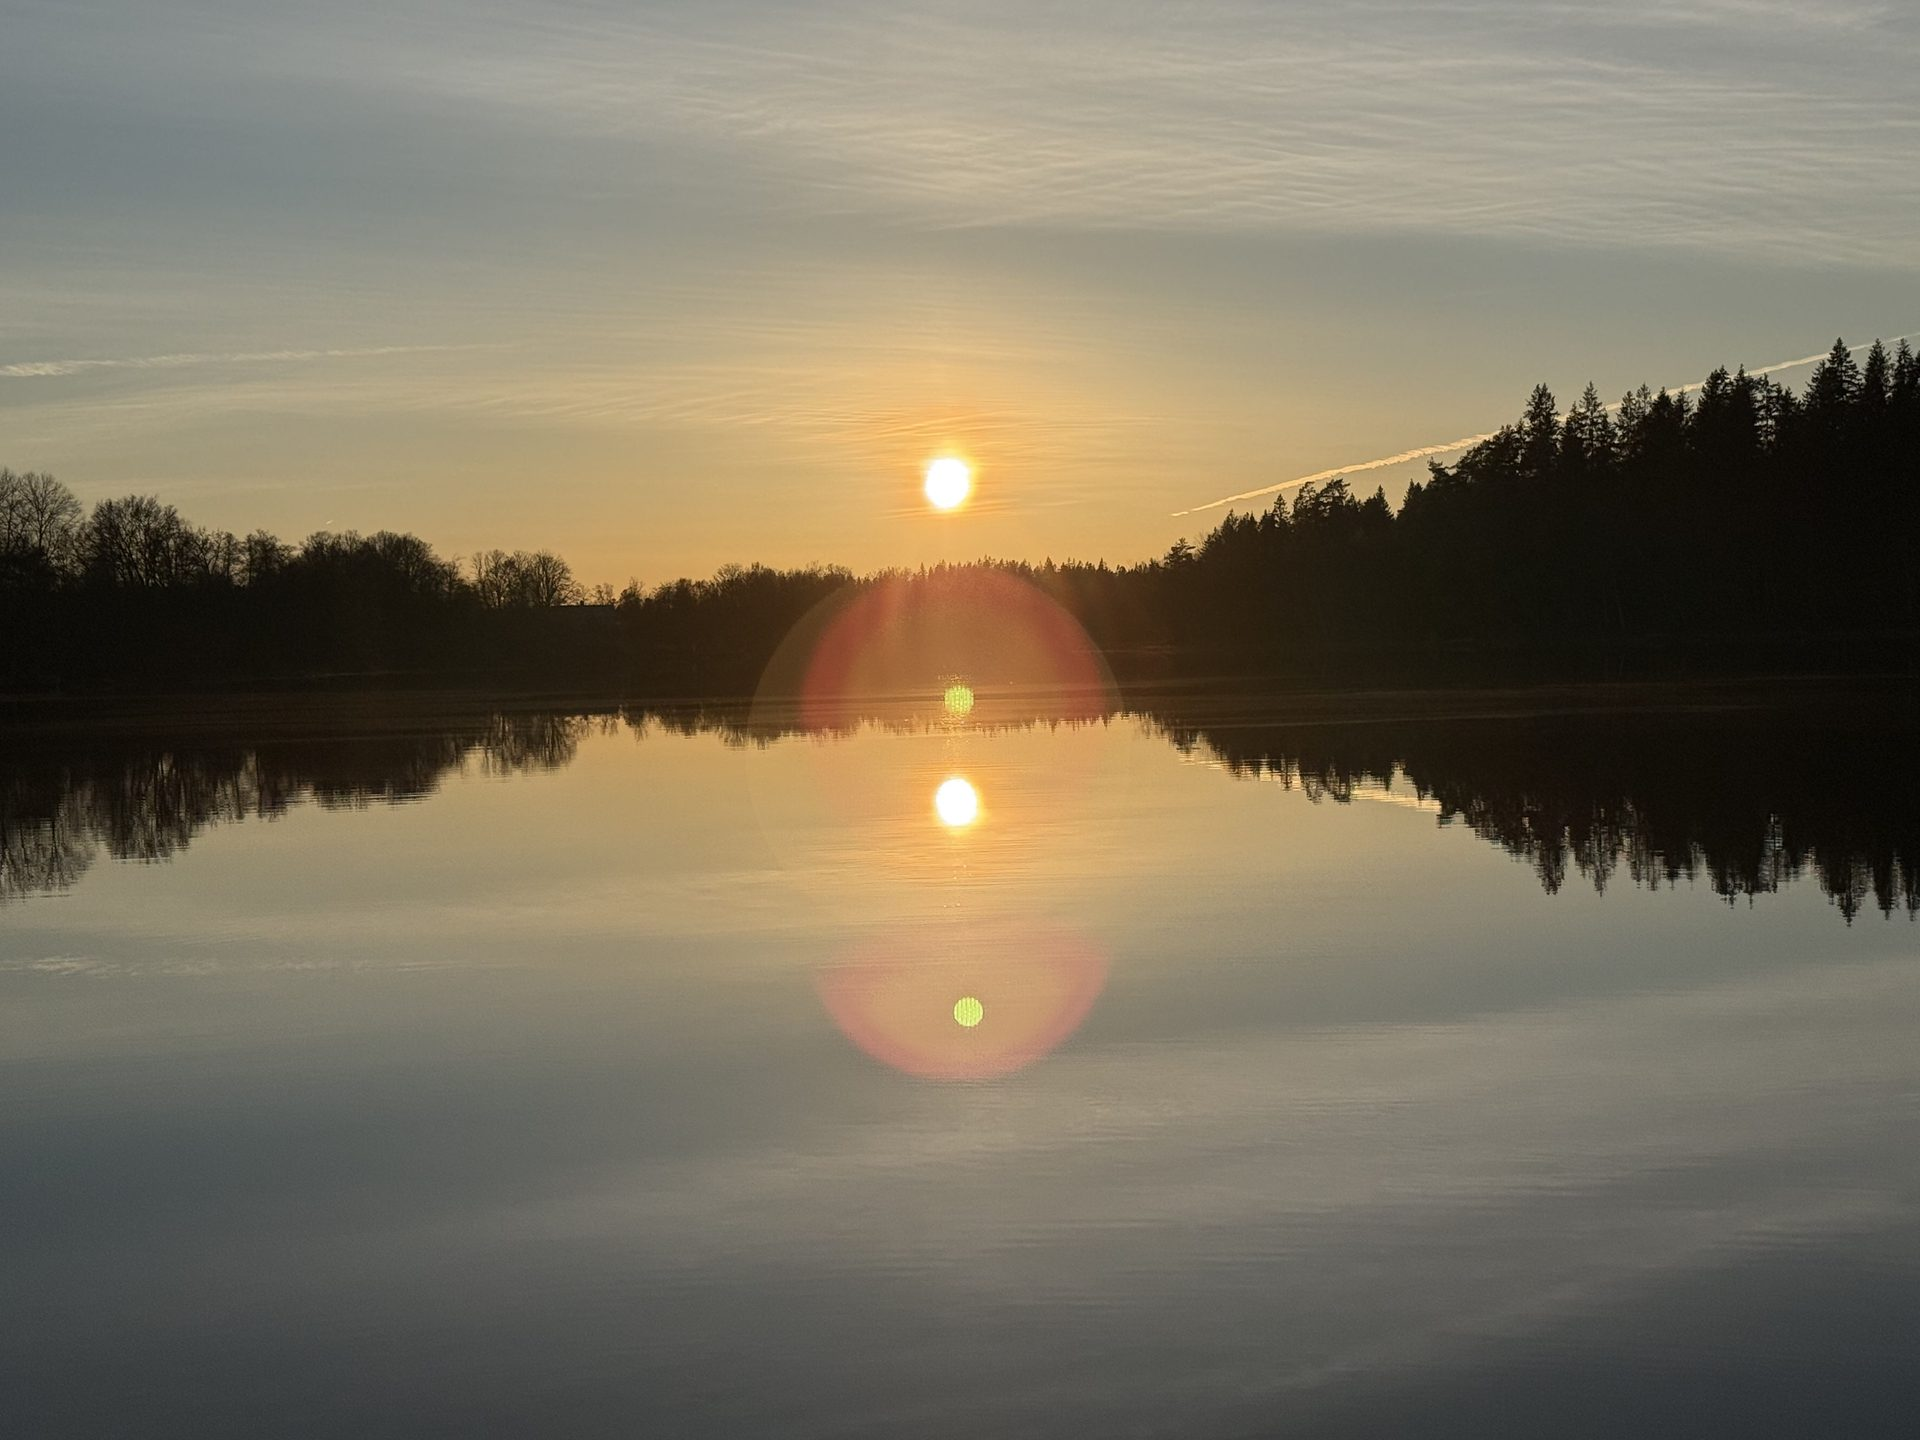
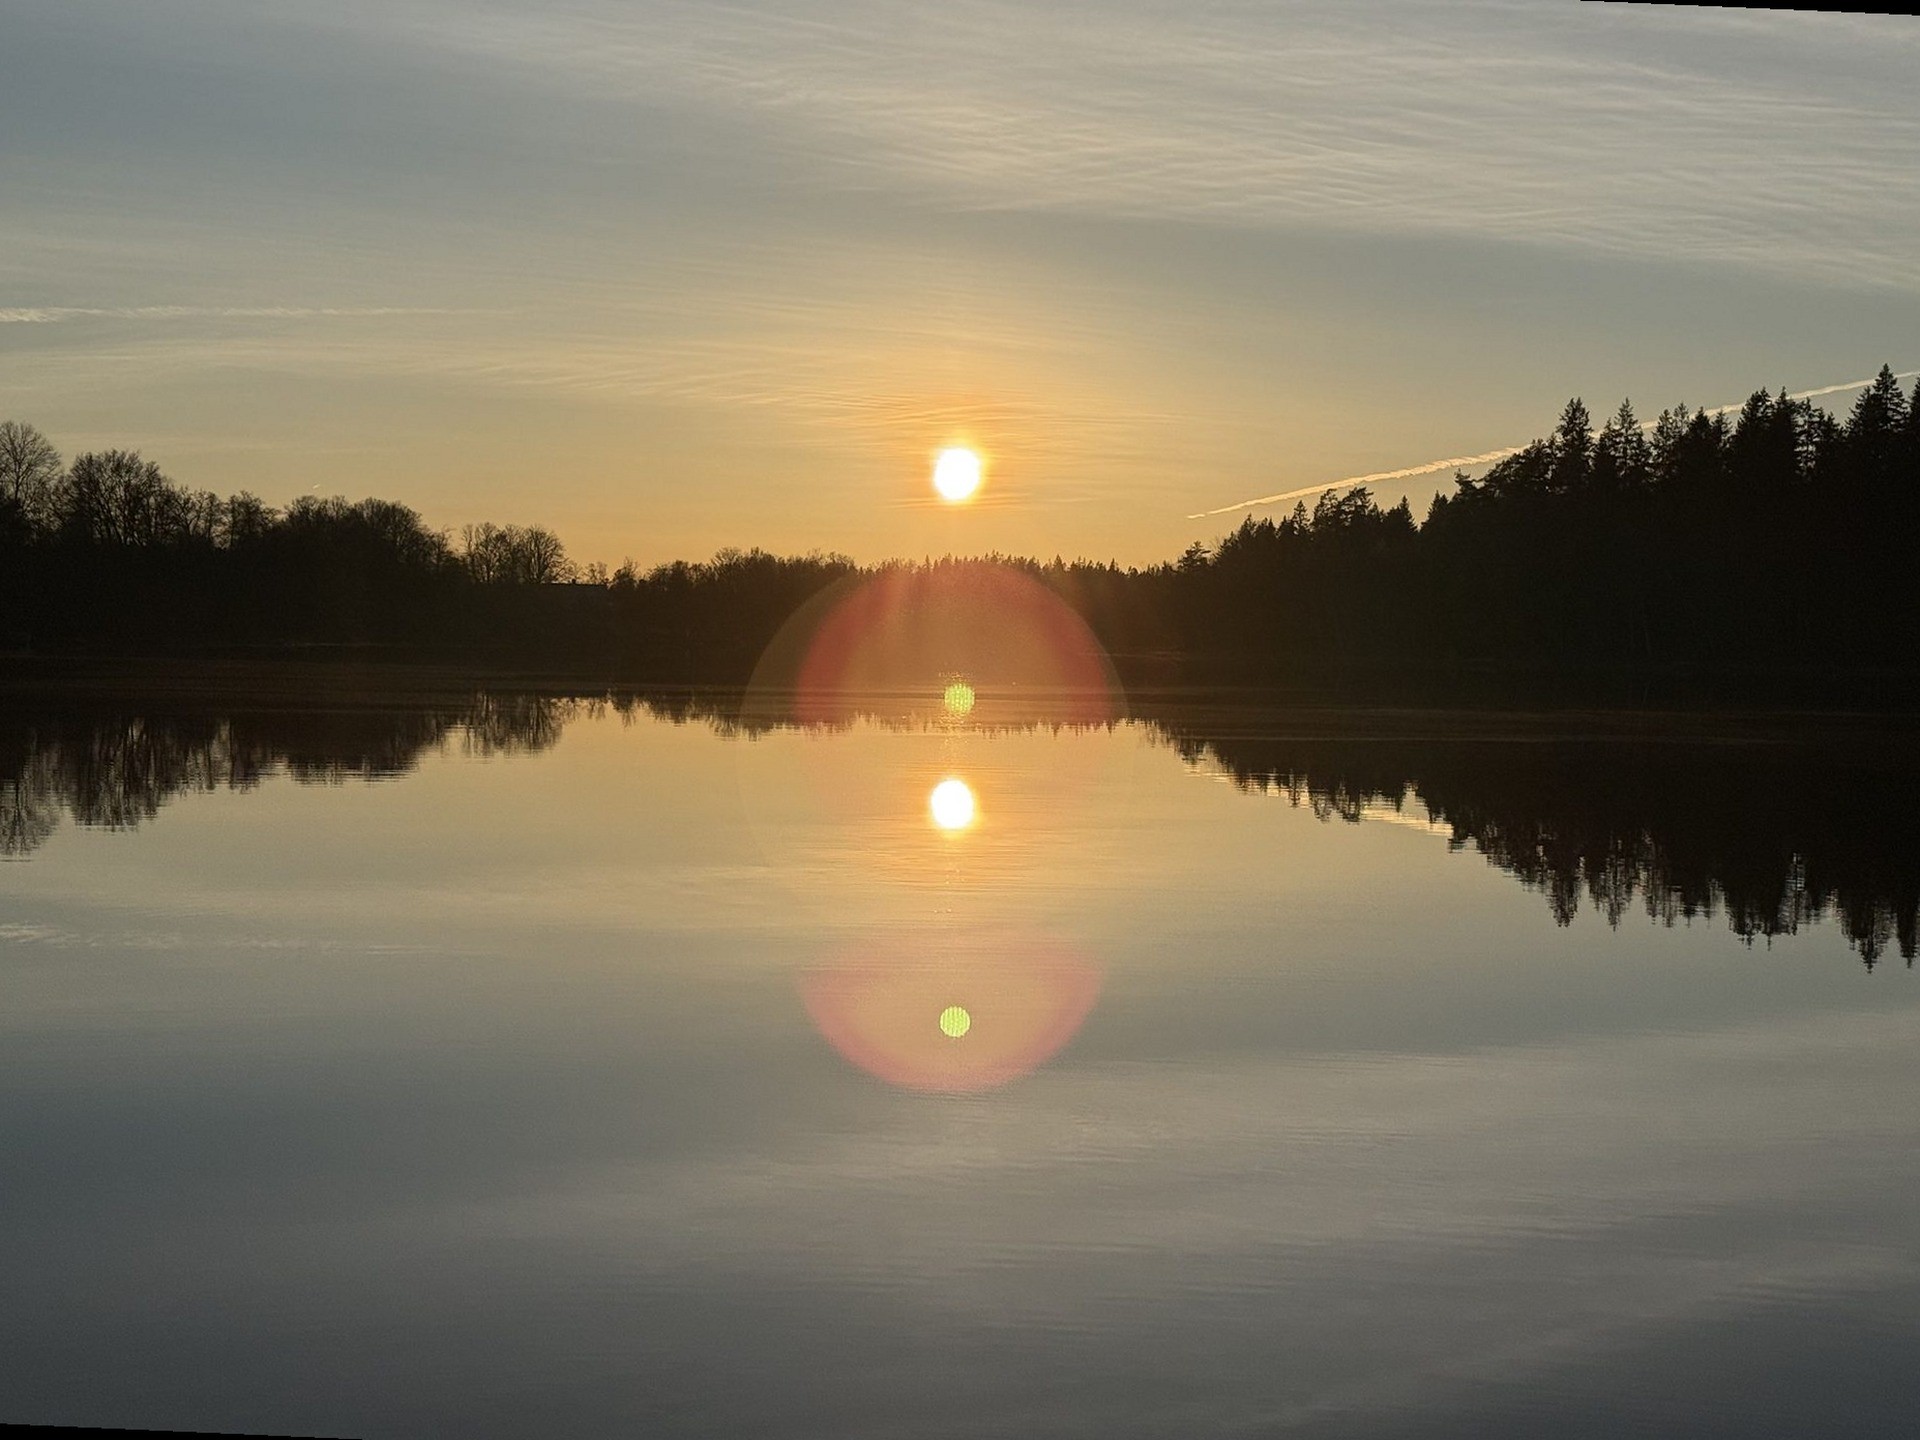
fix: ret hero-billedet op (2.5° med uret) så søens vandlinje er horisontal
Friederikkes originalbillede havde en let hældning mod venstre, så
vandet i søen virkede til at 'løbe' ud til den side. Roteret 2.5° med
uret og beskåret til samme aspect ratio for at undgå sorte hjørner.

Tilføjer også scripts/straighten-hero.py så vinklen let kan justeres
igen senere — backup af originalen ligger lokalt i img/.solnedgang-soe.original.jpg
(gitignored).

diff --git a/scripts/straighten-hero.py b/scripts/straighten-hero.py
@@ -1,0 +1,68 @@
+"""
+Retter hero-billedet op så søens vandlinje er horisontal.
+Roterer billedet med uret med en justerbar vinkel, og beskærer
+den størst-mulige inskriverede rektangel for at undgå sorte hjørner.
+
+Brug:
+    python scripts/straighten-hero.py [angle_degrees]
+
+Standard: 1.5 grader. Positive værdier = drej med uret (retter en
+venstre-hældning op).
+"""
+import sys
+import math
+from PIL import Image
+
+ANGLE = float(sys.argv[1]) if len(sys.argv) > 1 else 1.5  # grader, clockwise
+SRC = "img/.solnedgang-soe.original.jpg"
+DST = "img/solnedgang-soe.jpg"
+
+img = Image.open(SRC)
+w, h = img.size
+
+# PIL roterer mod uret ved positive vinkler. Vi vil drej med uret => negativ.
+rotated = img.rotate(-ANGLE, resample=Image.BICUBIC, expand=True)
+rw, rh = rotated.size
+
+# Beregn størst inskriverede rektangel med samme aspect ratio som originalen.
+# For et rektangel WxH roteret med vinkel θ, er den størst inskriverede
+# rektangel med samme aspekt cropped med faktor:
+#   k = 1 / (|cos θ| + (max(W, H) / min(W, H)) * |sin θ|)
+# Vi tager den simpleste tilgang: beregn maksimal aspect-bevarende crop.
+theta = math.radians(ANGLE)
+cos_t = abs(math.cos(theta))
+sin_t = abs(math.sin(theta))
+
+# Aspect ratio (bredde / højde) for originalen
+ar = w / h
+
+# Den størst inskriverede aspect-bevarende rektangel har bredde:
+#   crop_w = (w * cos_t - h * sin_t) if w >= h else ...
+# men en god approximation:
+if w >= h:
+    crop_w = (w * cos_t - h * sin_t)
+    crop_h = crop_w / ar
+else:
+    crop_h = (h * cos_t - w * sin_t)
+    crop_w = crop_h * ar
+
+crop_w = int(crop_w)
+crop_h = int(crop_h)
+
+# Centrér crop på det roterede billede
+cx = rw // 2
+cy = rh // 2
+left = cx - crop_w // 2
+top = cy - crop_h // 2
+right = left + crop_w
+bottom = top + crop_h
+
+cropped = rotated.crop((left, top, right, bottom))
+
+# Resize tilbage til original størrelse for at undgå at miste opløsning andre steder
+final = cropped.resize((w, h), Image.LANCZOS)
+final.save(DST, "JPEG", quality=92, optimize=True, progressive=True)
+
+print(f"Roteret {ANGLE}° med uret. Beskåret til {crop_w}x{crop_h}, "
+      f"opskaleret tilbage til {w}x{h}.")
+print(f"Skrev: {DST}")